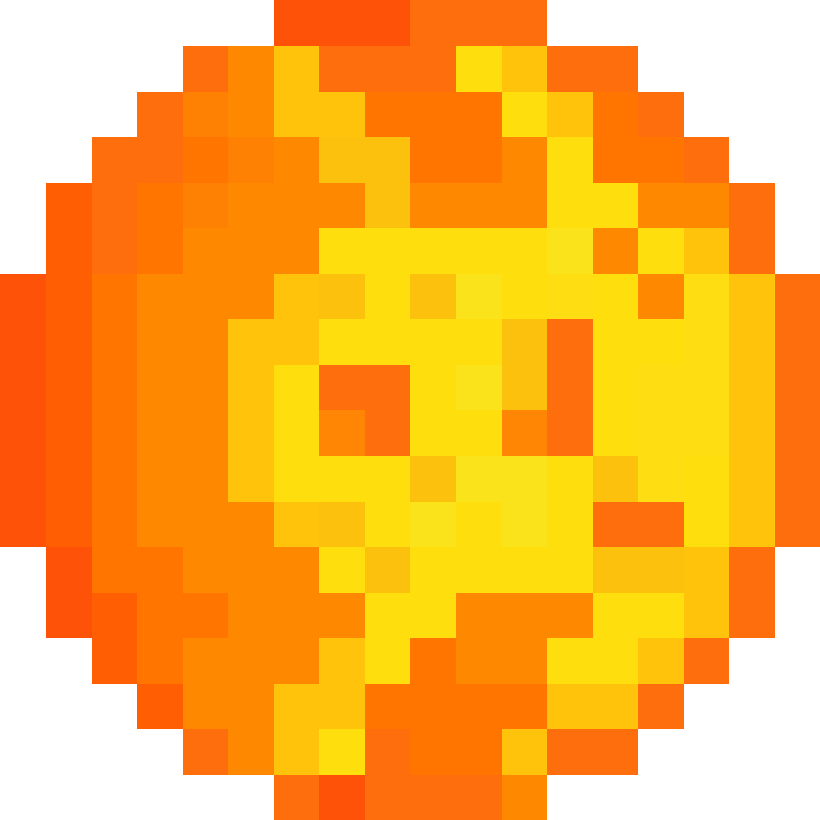
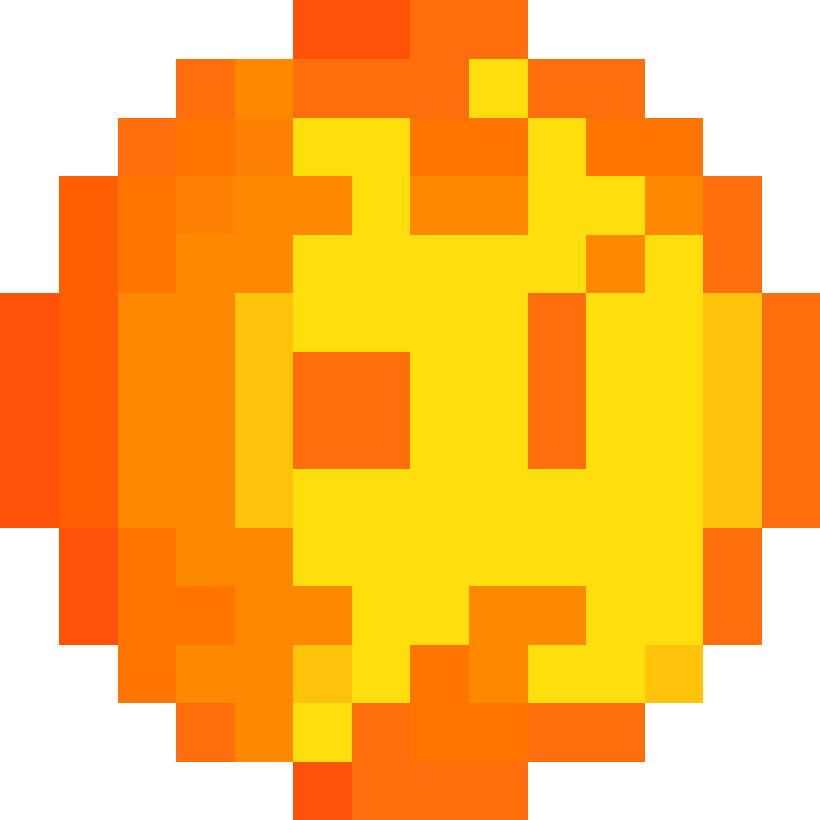
Coins Textures and Particles, Tweaking some things

Changed region(s): [[0.0, 0.0, 1.0, 1.0], [0.4878, 0.3354, 0.5793, 0.3963]]

diff --git a/game/core/src/gameobjects/Coin.java b/game/core/src/gameobjects/Coin.java
@@ -1,5 +1,7 @@
 package gameobjects;
 
+import com.badlogic.gdx.Gdx;
+import com.badlogic.gdx.graphics.g2d.ParticleEffect;
 import com.badlogic.gdx.graphics.g2d.Sprite;
 import com.badlogic.gdx.graphics.g2d.SpriteBatch;
 import com.badlogic.gdx.graphics.glutils.ShapeRenderer;
@@ -14,7 +16,6 @@ import com.badlogic.gdx.physics.box2d.joints.DistanceJointDef;
 import configuration.Settings;
 import gameworld.GameWorld;
 import helpers.AssetLoader;
-import helpers.FlatColors;
 
 /**
  * Created by ManuGil on 22/03/15.
@@ -26,6 +27,7 @@ public class Coin {
     private float radius;
     private Sprite sprite;
     private Body body, point;
+    private ParticleEffect effect;
 
     public Coin(GameWorld world, int x, int y, float radius) {
         this.world = world;
@@ -33,13 +35,12 @@ public class Coin {
         this.y = y;
         this.radius = radius;
 
-        sprite = new Sprite(AssetLoader.meteor);
+        sprite = new Sprite(AssetLoader.coin);
         sprite.setPosition(x, y);
         sprite.setSize(radius * 2, radius * 2);
         sprite.setRotation(MathUtils.random(0, 360));
         sprite.setOriginCenter();
-        sprite.setColor(FlatColors.GREEN);
-        sprite.setAlpha(0.7f);
+        sprite.setAlpha(0.8f);
 
         BodyDef bodyDefC = new BodyDef();
         bodyDefC.type = BodyDef.BodyType.DynamicBody;
@@ -48,13 +49,15 @@ public class Coin {
 
         body = world.getWorldB().createBody(bodyDefC);
         body.setAngularDamping(0.5f);
+        body.setLinearDamping(0.5f);
         //body.setFixedRotation(true);
+        body.setLinearVelocity(MathUtils.random(-2,2), MathUtils.random(-2,2));
         body.setGravityScale(0);
 
         BodyDef bodyDefP = new BodyDef();
         bodyDefP.type = BodyDef.BodyType.DynamicBody;
-        bodyDefP.position.set((sprite.getX() - 10) / world.PIXELS_TO_METERS,
-                sprite.getY() / world.PIXELS_TO_METERS);
+        bodyDefP.position.set((sprite.getX()) / world.PIXELS_TO_METERS,
+                (sprite.getY()+10) / world.PIXELS_TO_METERS);
         point = world.getWorldB().createBody(bodyDefP);
         point.setGravityScale(0);
 
@@ -73,7 +76,6 @@ public class Coin {
 
         //TODO: Check multicursor stuff in Android Studio
 
-        //TODO: Spring Stuff
         DistanceJointDef jointDef = new DistanceJointDef();
         jointDef.bodyA = body;
 
@@ -84,9 +86,9 @@ public class Coin {
                         body.getPosition().y + (radius / world.PIXELS_TO_METERS)),
                 new Vector2(point.getPosition().x + (radius / world.PIXELS_TO_METERS),
                         point.getPosition().y + (radius / world.PIXELS_TO_METERS)));
-        jointDef.dampingRatio = 1f;
-        jointDef.frequencyHz = 500;
-        jointDef.length = 15f / world.PIXELS_TO_METERS;
+        jointDef.dampingRatio = 0f;
+        jointDef.frequencyHz = 50;
+        jointDef.length = Settings.COIN_JOINT_DISTANCE/ world.PIXELS_TO_METERS;
         jointDef.collideConnected = false;
 
 
@@ -95,6 +97,10 @@ public class Coin {
         world.getWorldB().createJoint(jointDef);
         //world.getWorldB().createJoint(jointDef2);
         shape.dispose();
+
+        effect = new ParticleEffect();
+        effect.load(Gdx.files.internal("coin.p"), Gdx.files.internal(""));
+        effect.setPosition(300, 300);
         reset();
     }
 
@@ -104,6 +110,9 @@ public class Coin {
                 (body.getPosition().y * world.PIXELS_TO_METERS));
         point.setTransform(this.x / world.PIXELS_TO_METERS, this.y / world.PIXELS_TO_METERS, 0);
         limitVel();
+        effect.update(delta);
+        effect.setPosition(body.getWorldPoint(body.getLocalCenter()).x * world.PIXELS_TO_METERS,
+                body.getWorldPoint(body.getLocalCenter()).y * world.PIXELS_TO_METERS);
         sprite.setRotation((float) Math.toDegrees(body.getAngle()));
         sprite.setOrigin(0, 0);
     }
@@ -125,7 +134,7 @@ public class Coin {
     }
 
     public void render(SpriteBatch batcher, ShapeRenderer shapeRenderer) {
-        sprite.draw(batcher);
+        sprite.draw(batcher); effect.draw(batcher);
     }
 
     public void reset() {

diff --git a/game/core/src/gameobjects/Hero.java b/game/core/src/gameobjects/Hero.java
@@ -91,22 +91,36 @@ public class Hero {
         } else {
             if (clickedRight) {
                 body.applyForceToCenter(2f, +2f, true);
-                effect.setPosition(sprite.getX() + 5, sprite.getY() + (sprite.getWidth() / 2));
+                //effect.setPosition(sprite.getX() + 5, sprite.getY() + (sprite.getWidth() / 2));
 
             } else if (clickedLeft) {
                 body.applyForceToCenter(-2f, +2f, true);
-                effect.setPosition(sprite.getX() + sprite.getWidth() - 5,
-                        sprite.getY() + (sprite.getWidth() / 2));
+                //effect.setPosition(sprite.getX() + sprite.getWidth() - 5,                        sprite.getY() + (sprite.getWidth() / 2));
 
             } else {
-                effect.setPosition(sprite.getX() + sprite.getWidth() / 2,
-                        sprite.getY() + sprite.getHeight() - 10);
+                // effect.setPosition(sprite.getX() + sprite.getWidth() / 2,                sprite.getY() + sprite.getHeight() - 10);
 
             }
+            effectPosition();
         }
 
         limitVel();
         outOfBounds();
+    }
+
+    private void effectPosition() {
+        if (clickedLeft || clickedRight) {
+            if (sprite.isFlipX()) {
+                effect.setPosition(sprite.getX() + sprite.getWidth() - 5,
+                        sprite.getY() + (sprite.getWidth() / 2));
+            }else{
+                effect.setPosition(sprite.getX() + 5, sprite.getY() + (sprite.getWidth() / 2));
+            }
+
+        } else {
+            effect.setPosition(sprite.getX() + sprite.getWidth() / 2,
+                    sprite.getY() + sprite.getHeight() - 10);
+        }
     }
 
 

diff --git a/game/core/src/helpers/AssetLoader.java b/game/core/src/helpers/AssetLoader.java
@@ -15,8 +15,8 @@ import configuration.Configuration;
  */
 public class AssetLoader {
 
-    public static Texture logoTexture, dotT, colorCircleT, backgroundT, meteorT;
-    public static TextureRegion logo, square, dot, colorCircle, flashCircle, background, meteor;
+    public static Texture logoTexture, dotT, colorCircleT, backgroundT, meteorT, coinT;
+    public static TextureRegion logo, square, dot, colorCircle, flashCircle, background, meteor, coin;
 
     public static BitmapFont font, fontS, fontXS, fontB;
     private static Preferences prefs;
@@ -44,6 +44,11 @@ public class AssetLoader {
         meteorT.setFilter(TextureFilter.Linear, TextureFilter.Linear);
         meteor = new TextureRegion(meteorT, 0, 0, meteorT.getWidth(),
                 meteorT.getHeight());
+
+       coinT = new Texture(Gdx.files.internal("coin.png"));
+       coinT.setFilter(TextureFilter.Linear, TextureFilter.Linear);
+       coin = new TextureRegion(coinT, 0, 0,coinT.getWidth(),
+               coinT.getHeight());
 
         backgroundT = new Texture(Gdx.files.internal("background.png"));
         backgroundT.setFilter(TextureFilter.Linear, TextureFilter.Linear);

diff --git a/game/core/src/gameworld/GameWorld.java b/game/core/src/gameworld/GameWorld.java
@@ -114,7 +114,10 @@ public class GameWorld {
             points.add(new Vector2(gameWidth / (numberOfPoints + 1) * (i + 1),
                     gameHeight - marginOfPoints));
             //TODO: More spawn points for the coins
-            pointsDir.add(new Vector2(gameWidth / 2, gameHeight / (numberOfPoints + 1) * (i + 1)));
+            for(int j = 0;j <numberOfPoints;j++){
+                pointsDir.add(new Vector2(gameWidth / (numberOfPoints + 1) * (j + 1), gameHeight / (numberOfPoints + 1) * (i + 1)));
+            }
+
         }
 
         //BOX2D
@@ -132,6 +135,7 @@ public class GameWorld {
         }
 
         //CREATING COINS
+        coins.clear();
         for (int i = 0; i < numberOfCoins; i++) {
             Vector2 p = pointsDir.get(MathUtils.random(0, pointsDir.size - 1));
             coin = new Coin(this, (int) p.x, (int) p.y, 20);

diff --git a/game/android/src/com/madtriangle/noon/AndroidLauncher.java b/game/android/src/com/madtriangle/noon/AndroidLauncher.java
@@ -1,11 +1,13 @@
 package com.madtriangle.noon;
 
+import android.annotation.TargetApi;
 import android.app.AlertDialog;
 import android.content.Context;
 import android.content.Intent;
 import android.content.SharedPreferences;
 import android.graphics.Color;
 import android.net.Uri;
+import android.os.Build;
 import android.os.Bundle;
 import android.util.Log;
 import android.view.Gravity;
@@ -60,8 +62,10 @@ public class AndroidLauncher extends AndroidApplication implements
     SharedPreferences prefs;
 
 
+    @TargetApi(Build.VERSION_CODES.HONEYCOMB)
     @Override
     public void onCreate(Bundle savedInstanceState) {
+       
         super.onCreate(savedInstanceState);
 
         AndroidApplicationConfiguration cfg = new AndroidApplicationConfiguration();

diff --git a/game/core/src/helpers/InputHandler.java b/game/core/src/helpers/InputHandler.java
@@ -63,6 +63,12 @@ public class InputHandler implements InputProcessor {
                 } else {
                     world.getHero().clickedLeft();
                 }
+            }else if(activeTouch==2){
+                if(world.getHero().clickedLeft){
+                    world.getHero().clickedRight();
+                }else if(world.getHero().clickedRight){
+                    world.getHero().clickedLeft();
+                }
             }
         }
         return false;

diff --git a/game/core/src/configuration/Configuration.java b/game/core/src/configuration/Configuration.java
@@ -7,7 +7,7 @@ package configuration;
 public class Configuration {
 
     public static final String GAME_NAME = "Noon";
-    public static final boolean DEBUG = true;
+    public static final boolean DEBUG = false;
     public static final boolean SPLASHSCREEN = false;
 
     //ADMOB IDS

diff --git a/game/core/src/configuration/Settings.java b/game/core/src/configuration/Settings.java
@@ -21,5 +21,6 @@ public class Settings {
 
     //COINS
     public static final int NUMBER_INITIAL_COINS = 3;
-    public static final float COIN_MAX_VEL = 0.4f;
+    public static final float COIN_MAX_VEL = 0.2f;
+    public static final float COIN_JOINT_DISTANCE = 15f;
 }
